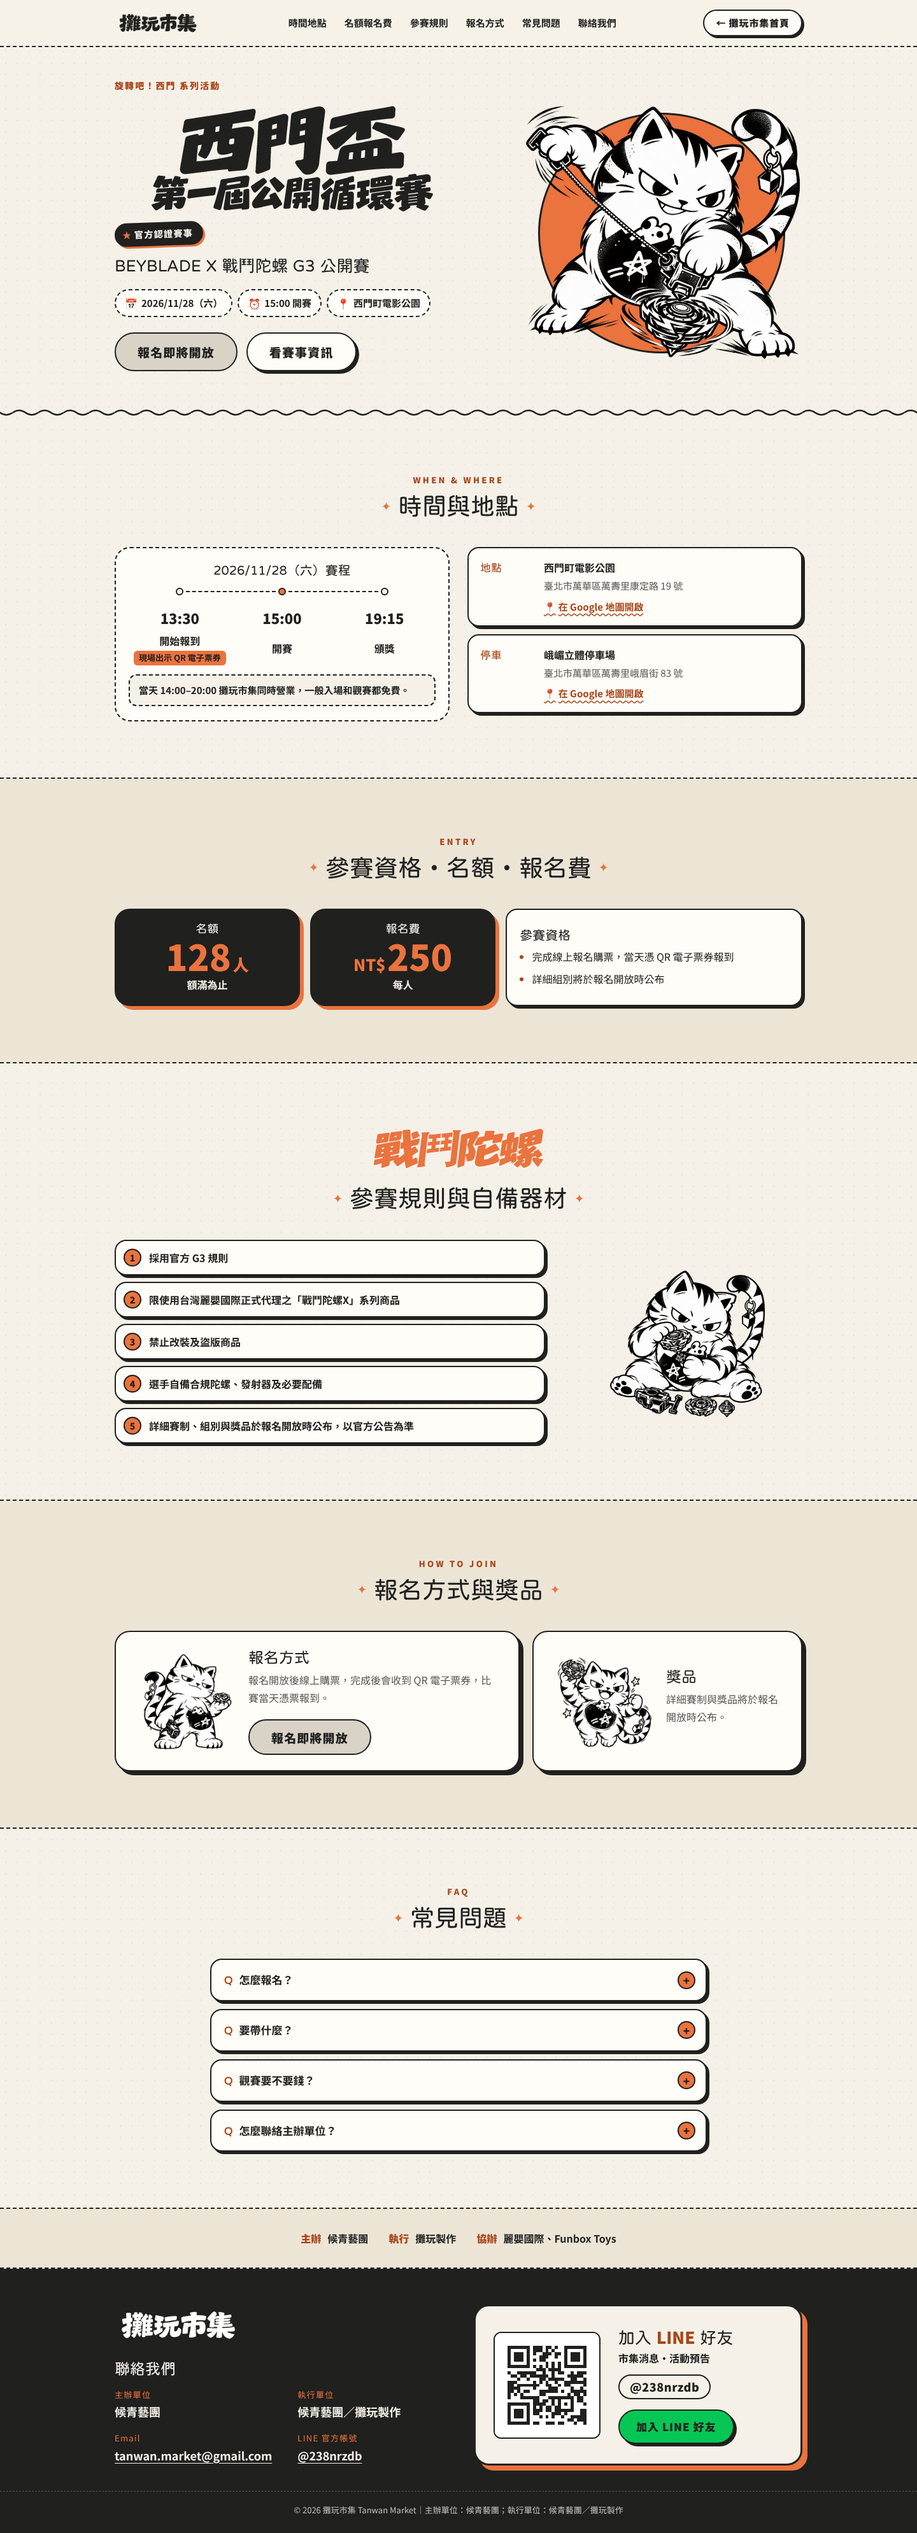
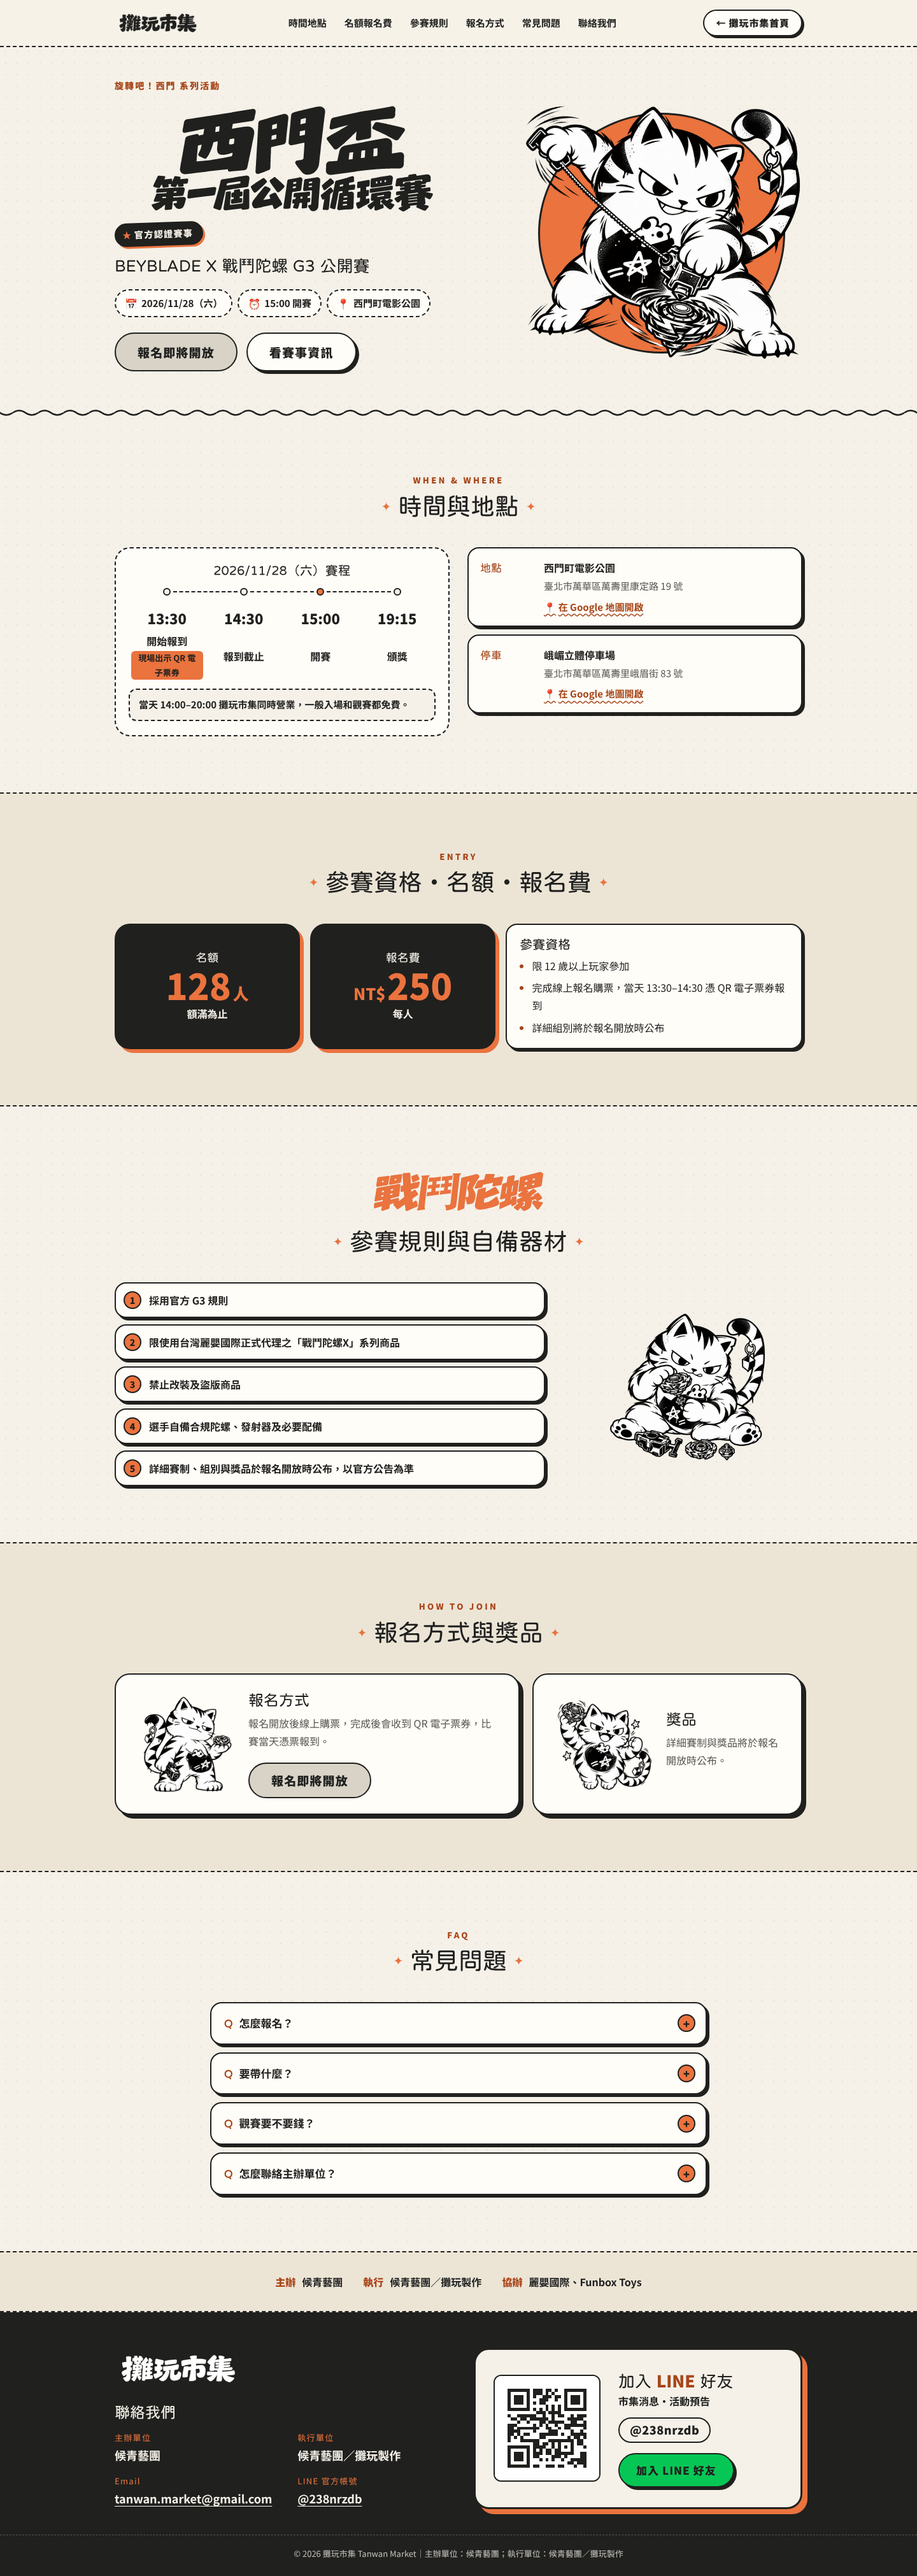
Ximen Cup: add check-in deadline and age limit, full 執行 credit
- Timeline: add 14:30 報到截止; FAQ and entry rules mention 13:30-14:30.
- Entry: 限 12 歲以上玩家參加 (also in meta description).
- Organisers: 執行 候青藝團／攤玩製作.

Claude-Session: https://claude.ai/code/session_012dQHuckgmktwtxDEBvdD1o

diff --git a/cup/index.html b/cup/index.html
@@ -5,7 +5,7 @@
   <meta name="viewport" content="width=device-width, initial-scale=1">
 
   <title>西門盃 第一屆公開循環賽｜BEYBLADE X 戰鬥陀螺 G3 公開賽 11/28（六）｜攤玩市集</title>
-  <meta name="description" content="西門盃 第一屆公開循環賽（G3 官方認證賽事），2026/11/28（六）在西門町電影公園舉行。名額 128 人，報名費每人 NT$250，觀賽免費。報名即將開放。">
+  <meta name="description" content="西門盃 第一屆公開循環賽（G3 官方認證賽事），2026/11/28（六）在西門町電影公園舉行。限 12 歲以上，名額 128 人，報名費每人 NT$250，觀賽免費。報名即將開放。">
   <meta name="theme-color" content="#F5F1E8">
   <link rel="canonical" href="https://tanwanmarket.com/cup/">
 
@@ -103,6 +103,7 @@
             <h3>2026/11/28（六）賽程</h3>
             <ol class="timeline cup-timeline">
               <li><time>13:30</time><span>開始報到<small>現場出示 QR 電子票券</small></span></li>
+              <li><time>14:30</time><span>報到截止</span></li>
               <li class="is-key"><time>15:00</time><span>開賽</span></li>
               <li><time>19:15</time><span>頒獎</span></li>
             </ol>
@@ -153,7 +154,8 @@
           <article class="rule-card cup-entry-card">
             <h3>參賽資格</h3>
             <ul>
-              <li>完成線上報名購票，當天憑 QR 電子票券報到</li>
+              <li>限 12 歲以上玩家參加</li>
+              <li>完成線上報名購票，當天 13:30–14:30 憑 QR 電子票券報到</li>
               <li>詳細組別將於報名開放時公布</li>
             </ul>
           </article>
@@ -229,7 +231,7 @@
         <div class="faq-list">
           <details class="faq">
             <summary>怎麼報名？</summary>
-            <div class="faq-body"><p>報名開放後線上購票，完成後會收到 QR 電子票券。比賽當天 13:30 開始報到，現場出示 QR 電子票券即可。</p></div>
+            <div class="faq-body"><p>報名開放後線上購票，完成後會收到 QR 電子票券。比賽當天 13:30 開始報到、14:30 報到截止，現場出示 QR 電子票券即可。</p></div>
           </details>
           <details class="faq">
             <summary>要帶什麼？</summary>
@@ -253,7 +255,7 @@
         <h2 id="org-title" class="sr-only">主辦與協辦</h2>
         <dl class="cup-org-list">
           <div><dt>主辦</dt><dd>候青藝團</dd></div>
-          <div><dt>執行</dt><dd>攤玩製作</dd></div>
+          <div><dt>執行</dt><dd>候青藝團／攤玩製作</dd></div>
           <div><dt>協辦</dt><dd>麗嬰國際、Funbox Toys</dd></div>
         </dl>
       </div>

diff --git a/cup/cup.css b/cup/cup.css
@@ -163,7 +163,7 @@
    平板以上
    ========================================================= */
 @media (min-width: 640px) {
-  .cup-timeline { grid-template-columns: repeat(3, 1fr); }
+  .cup-timeline { grid-template-columns: repeat(4, 1fr); }
   .cup-timeline span { flex-direction: column; font-size: 1rem; }
   .cup-timeline time { font-size: 1.375rem; }
   .cup-entry { grid-template-columns: 1fr 1fr; }
